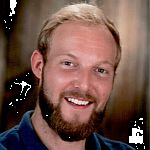
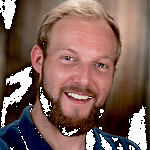
Austausch Bilder maier, schwarzinger wegen Flecken. jpg statt png

diff --git a/unternehmen/index.html b/unternehmen/index.html
@@ -168,7 +168,7 @@ Wissenschaftliche Leitung
     </div>
 </div><div class="mitarbeiter">
     <div class="imgbox">
-        <img src="/images/team/maier.png" width="150" height="150" />
+        <img src="/images/team/maier.jpg" width="150" height="150" />
     </div>
     <div class="card">
         <div class="name">Martin Maier MSc</div>
@@ -194,7 +194,7 @@ Wissenschaftliche Leitung
     </div>
 </div><div class="mitarbeiter">
     <div class="imgbox">
-        <img src="/images/team/schwarzinger.png" width="150" height="150" />
+        <img src="/images/team/schwarzinger.jpg" width="150" height="150" />
     </div>
     <div class="card">
         <div class="name">Dr. Bettina Schwarzinger</div>
